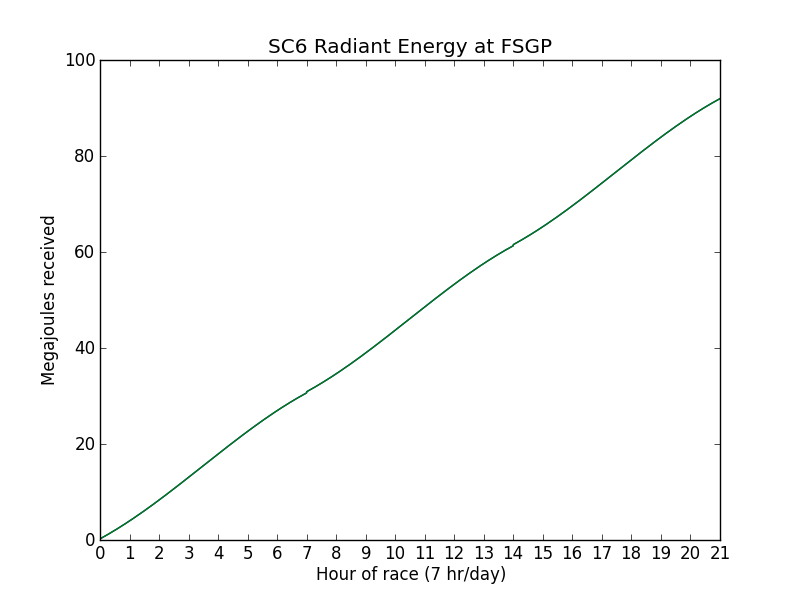
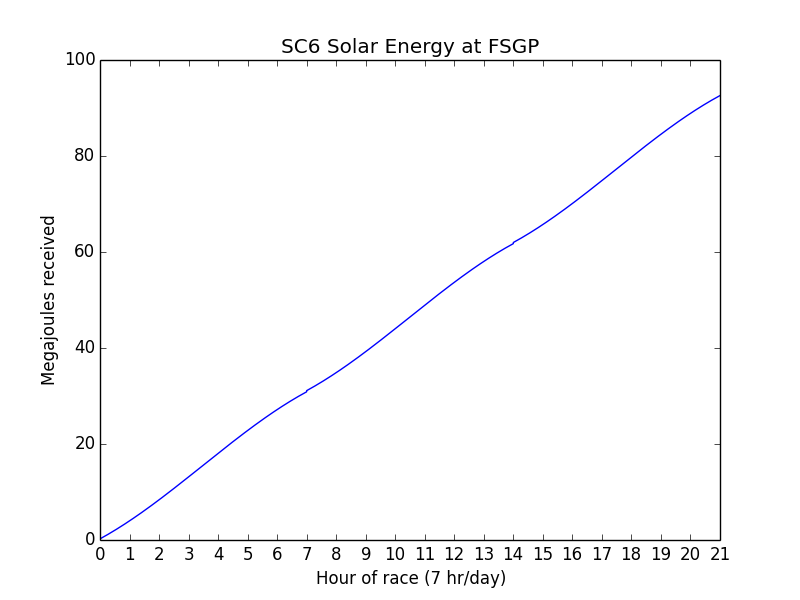
update telemetry analysis, improve timerange generation

diff --git a/python/analysis.py b/python/analysis.py
@@ -1,9 +1,9 @@
 #!/usr/bin/env python3
 # Copyright Alex Chandel, 2013. All rights reserved.
-import db, datetime as dt, time, numpy as np, pylab
+import datetime as dt, time, numpy as np, pylab
 from scipy.optimize import broyden1
 
-con = db.con()
+# con = db.con()
 def last_time():
 	c = con.execute("SELECT time FROM data ORDER BY time DESC LIMIT 1")
 	return dt.datetime.utcnow() - c.fetchone()[0]
@@ -12,6 +12,10 @@ def derived():
 	(volts, max(volts), min(volts), sum(volts)/len(volts),
 		temps, max(temps), min(temps), sum(temps)/len(temps),
 		bms_array_c, mppt_c, speed, current, current/speed, num)
+
+pi = 3.14159265358979323846264338327950
+R = 8314.4621 # PER KILOMOL
+
 
 rho_data = [[-25, -20, -15, -10, -5, 0, 5, 10, 15, 20, 25, 30, 35],
 	[1.4224, 1.3943, 1.3673, 1.3413, 1.3163, 1.2922,
@@ -23,8 +27,9 @@ def rho_air(T=25, P=101325, H=0): # T[dC],P[Pa], H[]
 def W_car(v, T=25, P=101325, H=0):
 	return 306 + .5*rho_air(T, P, H)* v**2 *0.01010724337
 
-pi = 3.14159265358979323846264338327950
-R = 8314.4621 # PER KILOMOL
+
+wheel_radius = 9 * 2.54 / 100 # [cm]
+
 
 def powerOut(v, T=25, P=101325, H=0): # [m/s], T[dC], P[Pa], H[]
 	"""Estimate parasitic power loss, from velocity"""
@@ -38,8 +43,9 @@ def powerOut(v, T=25, P=101325, H=0): # [m/s], T[dC], P[Pa], H[]
 	# W' = .5 rho v^3 Af CD  +  W Crr v
 	return .5*rho * v**3 *Af*CD + W*Crr* v
 
-def arrayPower(L=1365, T=59):
-	"""Characterizes array (via MPP) in terms of Luminosity and PV Temp"""
+
+def array_power(L=1365, T=59):
+	"""The array's solar power (via MPPTs) for a given Luminosity and array Temp"""
 	L_ref = 0.300 # W/cm^2
 	T_ref = 30 # dC
 	Isc_ref = 0.14 # A
@@ -51,36 +57,61 @@ def arrayPower(L=1365, T=59):
 	#Ia = Ib + Ig + Ir
 	return (0.3382+0.3493+0.3603)*L # [W] @ 59dC
 
+
+solar_constant = 1364.1 # W/m^2 at 1 AU
+
+
 J2000 =dt.datetime(2000, 1, 1, 12, 0, 0, 0, tzinfo=dt.timezone.utc).timestamp()
 
-def cosSun(unix_time = time.time(), thetaLong=-110.9625*pi/180, phi=48.7317*pi/180):
-	"""Computes the cosine of the angle between the array and the sun.
-	Also computes the Earth-Sun distance.
 
-	unix_time *MUST* be a float. You must list-comprehend over this function.
-	Don't pass lists or arrays. Ergo this function is slow.
-	"""
-	# [unix time] [rad] [rad]
+def solar_radius(unix_time = time.time()):
+	'''Returns the orbital radius of the Earth around the Sun at a given time.
+
+	unix_time: the Unix timestamp of the desired time
+	return: the orbital radius [AU]
+	'''
 	n_days = (unix_time - J2000)/86400 # num solar days since J2000
-	# n_days = n_days.days + n_days.seconds/86400
+
+	ec_Lm = (280.460 + 0.9856474*n_days)%360 # mean longitude [degrees]
+	ec_g = (357.528 + 0.9856003*n_days)%360 *pi/180 # mean anomaly [rad]
+	ec_L = (ec_Lm+ 1.915*np.sin(ec_g)+ 0.020*np.sin(2*ec_g)) *pi/180 # ecliptic long [rad]
+	return 1.00014 - 0.01671*np.cos(ec_g) + 0.00014*np.cos(2*ec_g) # orbital radius [AU]
+
+
+# 110.9625W, 48.7317N
+def cos_sun(unix_time = time.time(), theta_long=-97.6411*pi/180, phi_lat=30.1328*pi/180):
+	"""Computes the cosine of the angle between the Earth's surface and the Sun,
+	at a given time, longitude, and latitude.
+
+	unix_time: the Unix timestamp of the desired time
+	theta_long: angle from the Prime Meridian, radians
+	phi_lat: angle from the North Pole, radians
+	"""
+	n_days = (unix_time - J2000)/86400 # num solar days since J2000
+
 	ec_Lm = (280.460 + 0.9856474*n_days)%360 # mean longitude [degrees]
 	ec_g = (357.528 + 0.9856003*n_days)%360 *pi/180 # mean anomaly [rad]
 	ec_L = (ec_Lm+ 1.915*np.sin(ec_g)+ 0.020*np.sin(2*ec_g)) *pi/180 # ecliptic long [rad]
 	# R = 1.00014 - 0.01671*np.cos(ec_g) + 0.00014*np.cos(2*ec_g) # orbital radius [AU]
+
 	e = (23.439 - 0.0000004*n_days) *pi/180 # obliquity [rad]
+
 	# asc = np.arctan(np.cos(e)*np.tan(ec_L)) # right asc [rad, -pi/2 pi/2]
 	phi2= pi/2 - np.arcsin(np.sin(e)*np.sin(ec_L)) # pi/2 - declination [rad, -pi/2 pi/2]
 
-	utcnow = dt.datetime.utcfromtimestamp(unix_time) # .replace(tzinfo = dt.timezone.utc)
-	utcAngleFromNoon= (utcnow-dt.datetime.combine(utcnow, dt.time(12))).total_seconds()/43200*pi
-	car = [utcAngleFromNoon + thetaLong, phi] # car's location, earth, spherical coords
-	# special dot product
-	return np.sin(car[1])*np.sin(phi2)*np.cos(car[0])+ np.cos(car[1])*np.cos(phi2)
+	# car's location on earth, spherical coordinates
+	car_theta = ((unix_time + theta_long*86400/(2*pi)) % 86400 - 43200)*pi/43200
+	car_phi = phi_lat
 
-def timeRange(date = dt.datetime(2013, 6, 27), delta = dt.timedelta(3, 0, 0),
+	# special dot product
+	return np.sin(car_phi)*np.sin(phi2)*np.cos(car_theta) + np.cos(car_phi)*np.cos(phi2)
+
+
+def time_range(date = dt.datetime(2014, 7, 17, 7), delta = dt.timedelta(0, 12*3600, 0),
 	numel = 100, step_size = None):
-	"""Generate linspace'd list of Unix Time values, starting at date, ranging
+	"""Generate linspace'd array of Unix Time values, starting at date, ranging
 	over delta.
+	Default is July 17th 2014, 7 AM - 7 PM, in the local (Daylight Savings) timezone
 	"""
 	initial = date.timestamp()
 	final = initial + delta.total_seconds()
@@ -90,6 +121,7 @@ def timeRange(date = dt.datetime(2013, 6, 27), delta = dt.timedelta(3, 0, 0),
 		if np.sign(step_size) != np.sign(final - initial):
 			step_size *= -1
 	return np.r_[initial:final+step_size:step_size]
+
 
 def geo2sph(long = -110.9625, lat = 41.2683):
 	"""Converts longitude, latitude to spherical coordinates.
@@ -103,47 +135,50 @@ def geo2sph(long = -110.9625, lat = 41.2683):
 	"""
 	return (long*pi/180, (90-lat)*pi/180)
 
-def cuml_radiant_energy(trange, theta, phi):
-	"""Trapezoidally integrate Radiant Flux on Earth (theta, phi) over trange.
+
+COTA_location = geo2sph(-97.6343, 30.1355) # the COTA racetrack's coordinates
+
+
+def cuml_solar_energy(trange, theta, phi):
+	"""Trapezoidally integrate Solar Power on SC6 at (theta, phi) over trange.
 
 	theta, phi: either float or numpy.ndarray. If an array, they must be
 		*EXACTLY* as long as trange, or the longer will be truncated.
 	"""
-	def yielder(x):
-		while True: yield x
-	if type(theta) is float:
-		theta = yielder(theta)
-	if type(phi) is float:
-		phi = yielder(phi)
-	angles = np.array([max((cosSun(*x), 0)) for x in zip(trange, theta, phi)])
-	powers = arrayPower(L = 1300*angles)
+
+	radii = solar_radius(trange)
+	cosines = cos_sun(trange, theta, phi)
+	radiant_flux = solar_constant/radii**2 * cosines
+
+	powers = array_power(L = radiant_flux)
 	np.cumsum(np.r_[0, (powers[:-1]+powers[1:])/2/np.diff(trange)])
 	return np.cumsum(powers*(trange[1]-trange[0])) # trapezoidal approx
 
-americas_location = geo2sph(-97.6343, 30.1355) # racetrack
 
-def demo():
+def FSGP():
 	"""Cumulative radiant energy at FSGP, savefig."""
-	date = dt.datetime(2013, 6, 27, 10) # race from 10 AM
+	date = dt.datetime(2014, 7, 17, 10) # race from 10 AM
 	delta = dt.timedelta(0, 7*3600) # till 5 PM
-	trange = [timeRange(date+dt.timedelta(1)*x, delta) for x in range(3)]
+	trange = [time_range(date+dt.timedelta(1)*x, delta) for x in range(3)]
 	trange_total = np.concatenate(trange)
+
+	cuml_solar_E = cuml_solar_energy(trange_total, *americas_location)
+	battery_E = [15.5 * 10**6]
+	total_E = battery_E[0] + cuml_solar_E[-1]
+
 	race_hour = [trange[0] - trange[0][0]]
 	race_hour += [trange[1] - trange[1][0] + race_hour[0][-1]]
 	race_hour += [trange[2] - trange[2][0] + race_hour[1][-1]]
 	race_hour = np.concatenate(race_hour) / 3600
 
-	solar_E_cuml = cuml_radiant_energy(trange_total, *americas_location)
-	battery_E = [15.5 * 10**6]
-	total_E = solar_E_cuml[-1] + battery_E[0]
 	P_avg = total_E / (race_hour[-1] * 3600)
 	v = broyden1(lambda v: powerOut(v) - P_avg, 26)
 	print(v)
 
-	pylab.plot(race_hour, solar_E_cuml / 10**6)
+	pylab.plot(race_hour, cuml_solar_E / 10**6)
 	pylab.xticks(range(int(max(race_hour))+1))
 	pylab.xlim(min(race_hour), max(race_hour))
-	pylab.title("SC6 Radiant Energy at FSGP")
+	pylab.title("SC6 Solar Energy at FSGP")
 	pylab.xlabel("Hour of race (7 hr/day)")
 	pylab.ylabel("Megajoules received")
 	pylab.savefig('race_received_energy.png')
